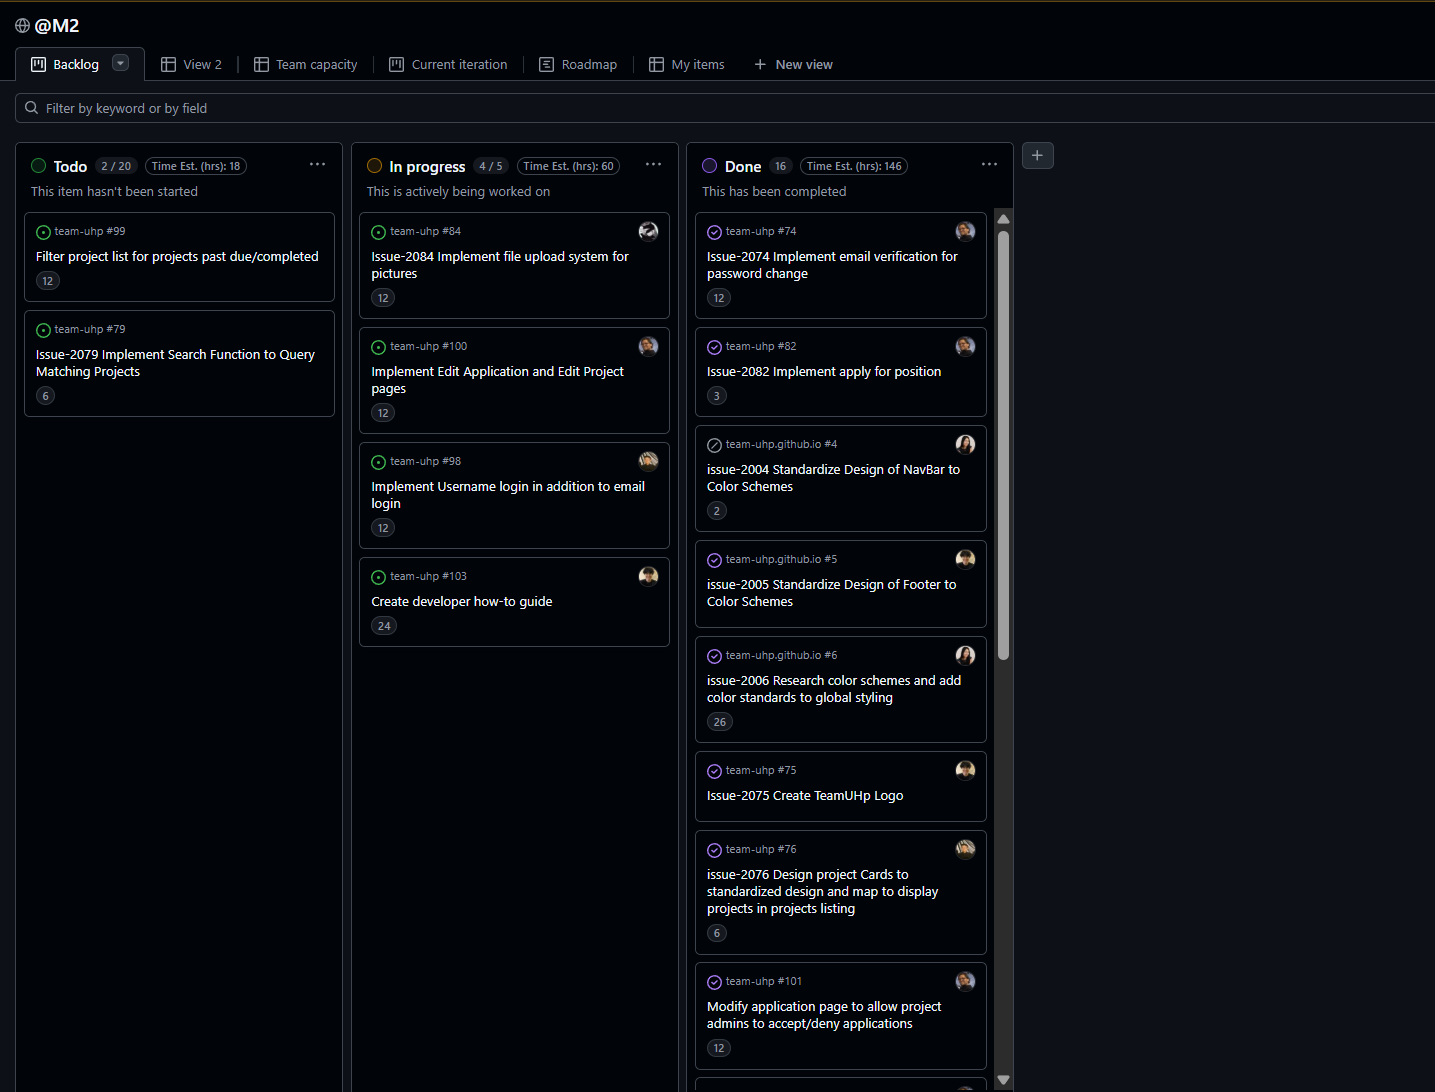
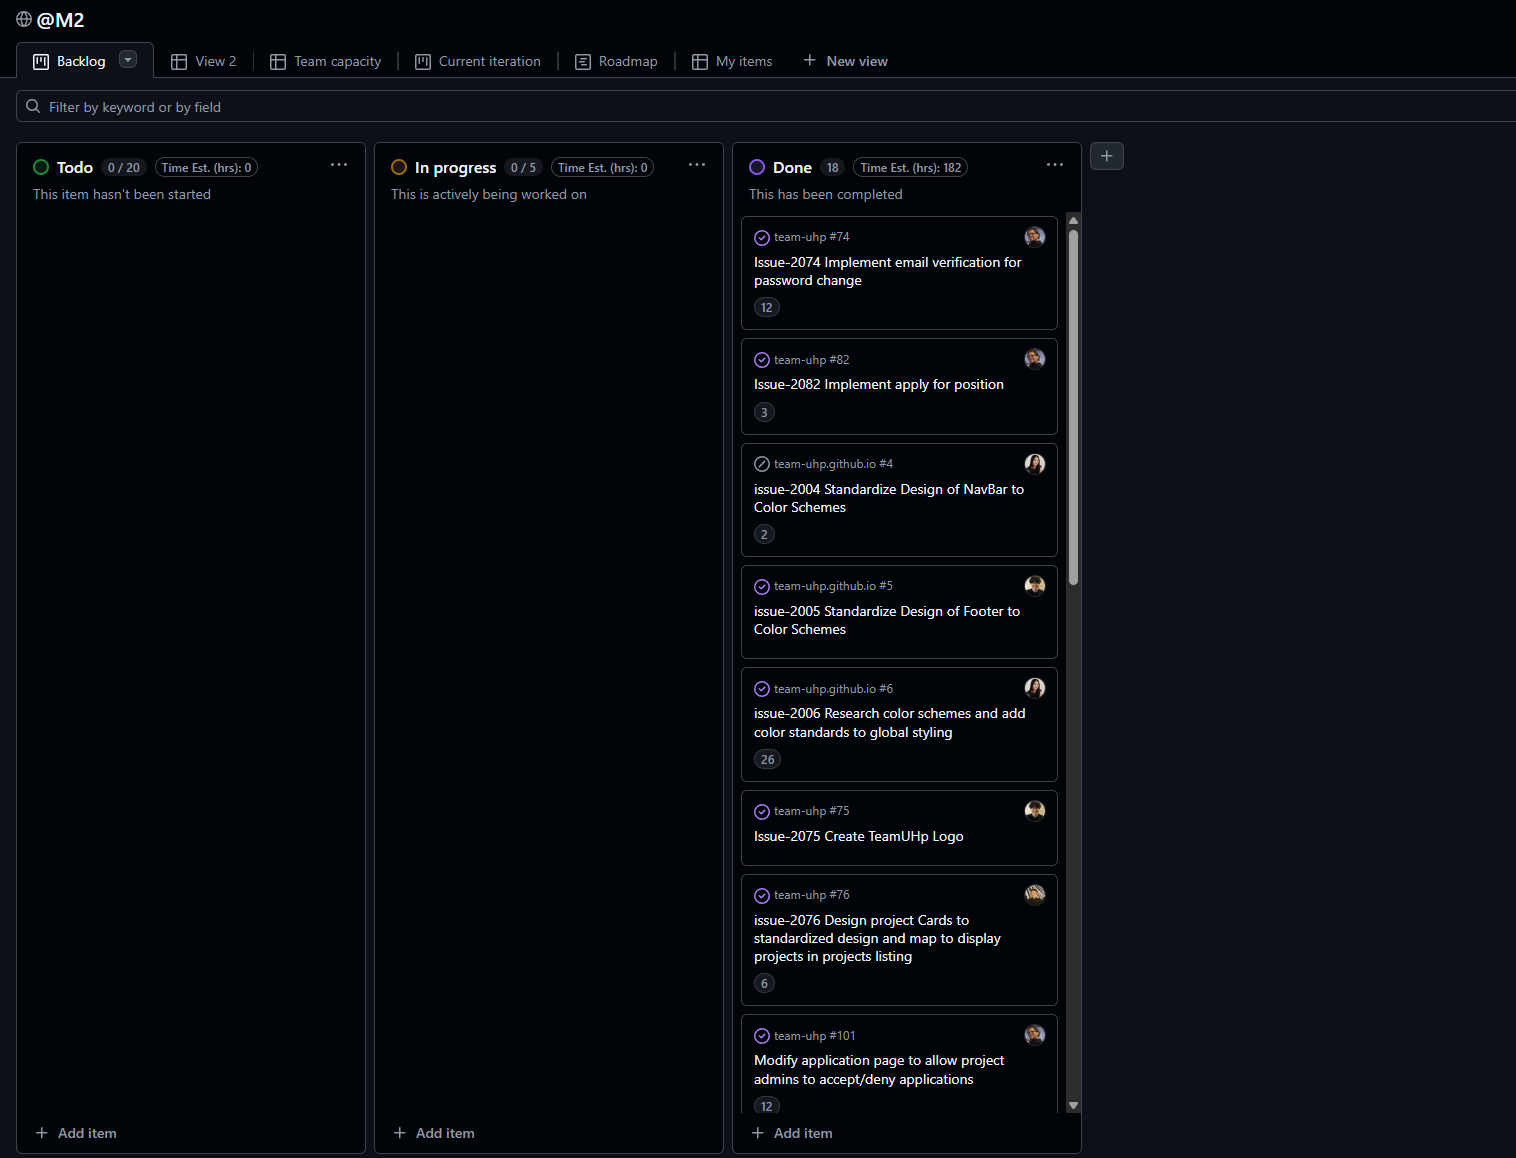
Updated milestone section

diff --git a/index.md b/index.md
@@ -169,17 +169,15 @@ Milestone 2 was managed using [TeamUHp GitHub Project Board M2:](https://github.
 
 <img class="padded" src="images/milestones/m2.png" alt="Milestone 2">
 <p style="text-align: center; font-style: italic;">Current milestone in progress.</p>
-<!-- TO DO: Update Milestone 2 to completed preview of Project @M2 by deadline  -->
 
-**Milestone 3: Improved Functionality & Supplementary Features** <br>
-The goal of Milestone 3 is to complete near-final functionality of critical features, and complete implementation of supplementary features that were added in design. 
-<!-- TO DO: Include milestone 3 description -->
+**Milestone 3: Complete Functionality & Supplementary Features** <br>
+The goal of Milestone 3 is to complete final functionality of critical features, and complete implementation of supplementary features that were added in design, in preperation for user-feedback of the live production.
 
 Milestone 3 is managed using [TeamUHp GitHub Project Board M3:](https://github.com/orgs/team-uhp/projects/6)
 
 <img class="padded" src="images/milestones/m3.png" alt="Milestone 3">
 <p style="text-align: center; font-style: italic;">Next milestone to follow.</p>
-<!-- TO DO: Add milestone 3 image -->
+<!-- TO DO: Add milestone 3 image (All issues must be in 'Done' Status-->
 
 
 ## Team
